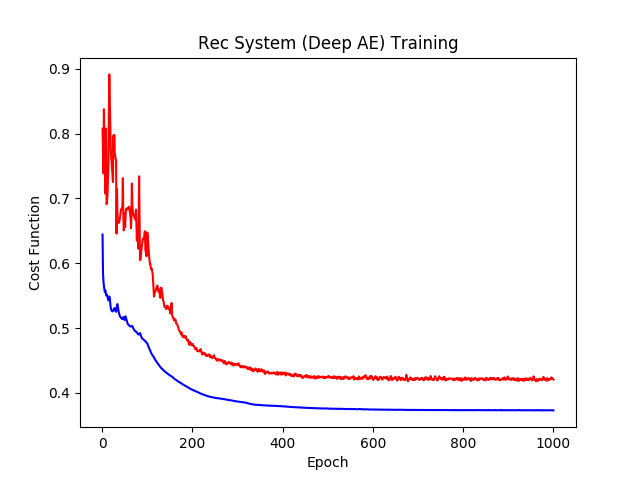
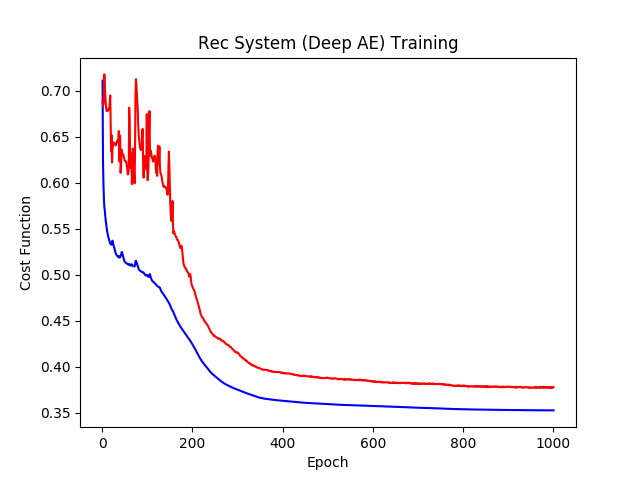
Generate Test Data & Polishing Main Code

diff --git a/problem_rec.py b/problem_rec.py
@@ -12,7 +12,7 @@ import csv
 import numpy as np
 import tensorflow as tf
 import matplotlib
-from decimal import Decimal
+import pickle
 
 matplotlib.use('Agg')
 
@@ -24,10 +24,7 @@ FLAGS = flags.FLAGS
 flags.DEFINE_integer('hidden_1', 128, 'The number of nodes in the first hidden layer')
 flags.DEFINE_integer('hidden_2', 64, 'The number of nodes in the second hidden layer')
 flags.DEFINE_boolean('train_mode', True, 'if True, system in training mode. Else, system in testing mode')
-flags.DEFINE_float('learning_rate', 1e-3, 'The learning rate of the network architecture')
-flags.DEFINE_integer('training_epoch', 1000, 'The number of training epoch')
 flags.DEFINE_integer('batchSize', 64, 'Size of one batch for training and testing purpose')
-flags.DEFINE_integer('sample_test', 0, 'The desired sample test in which the result is to be shown')
 
 def map_grade(grade):
 	if grade == "N":
@@ -123,7 +120,7 @@ nonzero_input = tf.math.count_nonzero(attempted_input)
 nonzero_input = tf.cast(nonzero_input, tf.float32)
 
 #Define the hyperparameter for the network architecture
-learning_rate = 1e-3
+learning_rate = tf.placeholder(tf.float32, [])
 training_epoch = 1000
 batchSize = 64
 hidden_1 = 128
@@ -171,15 +168,20 @@ with tf.device("/gpu:0"):
 #epoch_list, cost_list, cost_val_list = [], [], []
 
 epoch_save_list = [99, 199, 299, 399, 499, 599, 699, 799, 899, 999]
-learning_rate_list = [1e-2, 5e-3, 3e-3, 1e-3, 5e-4, 3e-4, 1e-4]
+learning_rate_list = [3e-3, 1e-3, 5e-4, 3e-4, 1e-4]
 batchSize = FLAGS.batchSize
 hidden_1 = FLAGS.hidden_1
 hidden_2 = FLAGS.hidden_2
 
 if FLAGS.train_mode:
-	record_file = open("h1s1_1e5_data.txt", "w")
+	pickle_out = open("epoch_lr.pickle", "wb")
 
-	for learning_rate in learning_rate_list:
+	#to be filled in with the best epoch and learning rate during training session
+	best_loss = None
+	best_epoch = None
+	best_lr = None
+
+	for learn_rate in learning_rate_list:
 		epoch_list, cost_list, cost_val_list = [], [], []
 		saver = tf.train.Saver()
 		
@@ -200,7 +202,7 @@ if FLAGS.train_mode:
 					batch_attempt = attempt_train[ptr:ptr+batchSize]
 					ptr += batchSize
 
-					_, cost = sess.run([optimizer, loss], feed_dict = {matrix_input : batch_input, attempted_input : batch_attempt})
+					_, cost = sess.run([optimizer, loss], feed_dict = {matrix_input : batch_input, attempted_input : batch_attempt, learning_rate : learn_rate})
 					total_cost += cost / no_of_batches
 
 				#After the optimization, also count the loss function of validation set
@@ -210,7 +212,7 @@ if FLAGS.train_mode:
 					batch_attempt = attempt_val[ptr:ptr+batchSize]
 					ptr += batchSize
 
-					cost_val = sess.run(loss, feed_dict = {matrix_input : batch_input, attempted_input : batch_attempt})
+					cost_val = sess.run(loss, feed_dict = {matrix_input : batch_input, attempted_input : batch_attempt, learning_rate : learn_rate})
 					total_val_loss += cost_val / no_of_batches_val
 
 				#Save the value for the loss graph creation
@@ -222,9 +224,13 @@ if FLAGS.train_mode:
 					print("Finish Epoch# %d with Train Loss %.8f and Val Loss %.8f" % (epoch + 1, total_cost, total_val_loss))
 
 				if epoch in epoch_save_list:
-					print("now in Epoch %d, writing into result file" % (epoch + 1))
-					saver.save(sess, "./model_h1s1_1e5_new_data_epoch_%d_lr_%.0e.ckpt" % (epoch + 1, Decimal(learning_rate)))
-					record_file.write("Epoch = %5d, Learning Rate = %.0e, Validation Loss = %.8f\n" % (epoch + 1, Decimal(learning_rate), total_val_loss))
+					saver.save(sess, "./model_h1s1_1e5_new_data_epoch_%d_lr_%.0e.ckpt" % (epoch + 1, learn_rate))
+					if best_loss == None or best_loss > total_val_loss:
+						best_epoch, best_lr = epoch + 1, learn_rate
+						best_loss = total_val_loss
+						print("The current best loss value is %.8f, achieved with epoch %d and learning rate %.0e" % \
+							(best_loss, best_epoch, best_lr))
+					
 			print("Optimization and Training Finished")
 
 			plt.plot(epoch_list, cost_list, "b", epoch_list, cost_val_list, "r")
@@ -233,17 +239,24 @@ if FLAGS.train_mode:
 
 			plt.title("Rec System (Deep AE) Training")
 
-			plt.savefig("AE_Training_h1s1_1e5_new_data_epoch_%d_lr_%.0e.png" % (epoch + 1, Decimal(learning_rate)))
+			plt.savefig("AE_Training_h1s1_1e5_new_data_epoch_%d_lr_%.0e.png" % (epoch + 1, learn_rate))
 
 			plt.clf()
 
-	#closing the result file for compilation		
-	record_file.close()
+	dump_set = [best_loss, best_epoch, best_lr]
+	pickle.dump(dump_set, pickle_out)
+	pickle_out.close()
 
 else:
+	pickle_in = open("epoch_lr.pickle", "rb")
+	dumped_set = pickle.load(pickle_in)
+	print("The set of best hyperparameter is %d, %.0e" % (dumped_set[1], dumped_set[2]))
+
 	with tf.Session() as sess:
 		saver = tf.train.Saver()
-		saver.restore(sess, "model_h1s1_1e5_new_data_epoch_1000_lr_3e-04.ckpt")
+
+		file_name = "model_h1s1_1e5_new_data_epoch_%d_lr_%.0e.ckpt" % (dumped_set[1], dumped_set[2])
+		saver.restore(sess, file_name)
 
 		print("Saved Model has been Restored")
 
@@ -258,19 +271,20 @@ else:
 			batch_attempt = attempt_test[ptr:ptr+batchSize]
 			ptr += batchSize
 
-			cost_test = sess.run(loss, feed_dict = {matrix_input : batch_input, attempted_input : batch_attempt})
+			cost_test = sess.run(loss, feed_dict = {matrix_input : batch_input, attempted_input : batch_attempt, learning_rate : dumped_set[2]})
 			total_cost_test += cost_test / no_of_batches_test
 
+		print("The Validation Loss is %.8f" % (dumped_set[0]))
 		print("The Test Loss is %.8f\n" % (total_cost_test))
 
 		#Second step : Showing one example of the test sample and its result
-		test_sample = np.reshape(input_test[1672+5005+263], [1, num_genre])
-		test_sample_a = np.reshape(attempt_test[1672+5005+263], [1, num_genre])
-		result_sample = sess.run(matrix_output, feed_dict = {matrix_input : test_sample, attempted_input : test_sample_a})
+		test_sample = np.reshape(input_test[1739+2675+263], [1, num_genre])
+		test_sample_a = np.reshape(attempt_test[1739+2675+263], [1, num_genre])
+		result_sample = sess.run(matrix_output, feed_dict = {matrix_input : test_sample, attempted_input : test_sample_a, learning_rate : dumped_set[2]})
 		
 		print("Showing one example of the test sample")
 		print("The test sample is\n", test_sample)
-		print("and the result is\n", result_sample)
+		print("and the result is\n", vec_convert(result_sample))
 
 		#Third step : Counting on the average of the difference after conversion
 		ptr = 0
@@ -280,7 +294,7 @@ else:
 			batch_attempt = attempt_test[ptr:ptr+batchSize]
 			ptr += batchSize
 
-			matrix_test = sess.run(matrix_output, feed_dict = {matrix_input : batch_input, attempted_input : batch_attempt})
+			matrix_test = sess.run(matrix_output, feed_dict = {matrix_input : batch_input, attempted_input : batch_attempt, learning_rate : dumped_set[2]})
 			nonzero_count = vec_convert(matrix_test)
 			#for j in range(len(matrix_test)):
 			#	for k in range(len(matrix_test[j])):

diff --git a/generate_fake_test.py b/generate_fake_test.py
@@ -1,0 +1,174 @@
+"""
+This code is purposed to generate the fake test data
+that will be used to have their result shown, just to know how
+good the network actually is in evaluating randomized data
+"""
+
+import csv
+import random
+import numpy as np
+import scipy.stats as sp
+
+num_users = 80
+
+#Step 1 : Extract the CSV file
+#The objective here is to get the information about the topic
+#and also the genre's code for one particular genre
+info_genre = []
+
+with open("info_qfactory_h1s1.csv") as csv_file:
+	csv_reader = csv.reader(csv_file, delimiter = ",")
+	for row in csv_reader:
+		info_genre.append(int(row[3]))
+
+num_topics = max(info_genre)
+num_genre = len(info_genre)
+
+grade_user = []
+
+#Step 2 : Determine the grade for each user's genre
+#Here the assumption is that each user has completed all of the genres
+#but with different kind of grade that will be obtained, in total of 4 types
+
+
+#The second type of user will get the grade based on assumption on normality in topics
+#The third type of user will get the grade just randomly
+
+cat_user = []
+
+#The first type of user will get the grade based on assumption on multiple normalities
+#(just like the assumption made for establishing the train, val and test data)
+def first_kind_grade():
+	alpha = np.random.normal(loc = 0.0, scale = 1.0)
+	cdf_user = sp.norm(0,1).cdf(alpha)
+	if cdf_user > 0.9:
+		user_category = 1
+	elif 0.7 < cdf_user < 0.9:
+		user_category = 2
+	elif 0.3 < cdf_user < 0.7:
+		user_category = 3
+	elif 0.1 < cdf_user < 0.3:
+		user_category = 4
+	else:
+		user_category = 5
+	
+	cat_user.append(user_category)
+	user_topics = []
+	for tmp in range(num_topics): #for each user, iterating over all topics to determine user's capabilities on certain topic
+		ratio = np.random.uniform(low = 0.9, high = 1.1)
+		new_alpha = ratio * alpha
+		user_topics.append(np.random.normal(loc = new_alpha, scale = 0.5))
+
+	grade_obtained = []
+	for i in range(len(info_genre)):
+		grade_apx = np.random.normal(loc = user_topics[info_genre[i] - 1], scale = 0.25)
+		cdf_value = sp.norm(0,1).cdf(grade_apx)
+		if cdf_value > 0.9:
+			grade_assigned = "S"
+		elif 0.7 < cdf_value < 0.9:
+			grade_assigned = "A"
+		elif 0.3 < cdf_value < 0.7:
+			grade_assigned = "B"
+		elif 0.1 < cdf_value < 0.3:
+			grade_assigned = "C"
+		else:
+			grade_assigned = "D"
+
+		grade_obtained.append(grade_assigned)
+
+	grade_user.append(grade_obtained)
+
+#The second type of user belongs to the user who has customized randomization, which is that
+#user has really random rate of knowledge varying over topics on same grade
+def second_kind_grade():
+	cat_user.append(6)
+	user_topics = []
+	for tmp in range(num_topics): #for each user, iterating over all topics to determine user's capabilities on certain topic
+		user_topics.append(np.random.normal(loc = 0.0, scale = 1.0))
+
+	grade_obtained = []
+	for i in range(len(info_genre)):
+		grade_apx = np.random.normal(loc = user_topics[info_genre[i] - 1], scale = 0.25)
+		cdf_value = sp.norm(0,1).cdf(grade_apx)
+		if cdf_value > 0.9:
+			grade_assigned = "S"
+		elif 0.7 < cdf_value < 0.9:
+			grade_assigned = "A"
+		elif 0.3 < cdf_value < 0.7:
+			grade_assigned = "B"
+		elif 0.1 < cdf_value < 0.3:
+			grade_assigned = "C"
+		else:
+			grade_assigned = "D"
+
+		grade_obtained.append(grade_assigned)
+
+	grade_user.append(grade_obtained)
+
+#The third type of user may belong to the user who has the grades totally randomized
+def third_kind_grade():
+	cat_user.append(6)
+	grade_obtained = []
+	for i in range(len(info_genre)):
+		grade_apx = np.random.normal(loc = 0.0, scale = 1.0)
+		cdf_value = sp.norm(0,1).cdf(grade_apx)
+		if cdf_value > 0.9:
+			grade_assigned = "S"
+		elif 0.7 < cdf_value < 0.9:
+			grade_assigned = "A"
+		elif 0.3 < cdf_value < 0.7:
+			grade_assigned = "B"
+		elif 0.1 < cdf_value < 0.3:
+			grade_assigned = "C"
+		else:
+			grade_assigned = "D"
+
+		grade_obtained.append(grade_assigned)
+
+	grade_user.append(grade_obtained)
+
+#The fourth type of user belongs to the uniformly distributed randomized grading system
+def fourth_kind_grade():
+	cat_user.append(6)
+	grade_obtained = []
+	for i in range(len(info_genre)):
+		grade_apx = np.random.uniform(low = 0.0, high = 5.0)
+		cdf_value = sp.uniform(0,5).cdf(grade_apx)
+		if cdf_value > 0.8:
+			grade_assigned = "S"
+		elif 0.6 < cdf_value < 0.8:
+			grade_assigned = "A"
+		elif 0.4 < cdf_value < 0.6:
+			grade_assigned = "B"
+		elif 0.2 < cdf_value < 0.4:
+			grade_assigned = "C"
+		else:
+			grade_assigned = "D"
+
+		grade_obtained.append(grade_assigned)
+
+	grade_user.append(grade_obtained)
+
+for i in range(num_users):
+	if i < num_users / 4:
+		first_kind_grade()
+	elif num_users / 4 <= i < num_users / 2:
+		second_kind_grade()
+	elif num_users / 2 <= i < 3 * num_users / 4:
+		third_kind_grade()
+	else:
+		fourth_kind_grade()
+
+#Now starting to writing up into the test data file
+with open("test_grade_h1s1.csv", mode = 'w') as csv_file:
+	csv_writer = csv.writer(csv_file, delimiter = ",")
+
+	list_elem = ["user_id", "category"]
+	for i in range(num_genre):
+		list_elem.append("Genre #" + str(i + 1))
+	csv_writer.writerow(list_elem)
+
+	for i in range(len(grade_user)):
+		list_elem = ["User #" + str(i + 1)]
+		list_elem = list_elem + [cat_user[i]] + grade_user[i]
+		csv_writer.writerow(list_elem)

diff --git a/statistic_split.py b/statistic_split.py
@@ -34,8 +34,8 @@ else:
 				data_by_capability[int(row[1]) - 1].append(row)
 
 	train_split = [6500, 10000, 15000, 10000, 6500] # will be decided later
-	val_split = [1739, 5107, 12496, 4888, 1770]
-	test_split = [1739, 5108, 12495, 4888, 1770]
+	val_split = [1739, 2675, 4013, 2676, 1739]
+	test_split = [1739, 2675, 4013, 2676, 1739]
 
 	with open("train_data.csv", mode = 'w') as csv_file:
 		csv_writer = csv.writer(csv_file, delimiter = ',')
